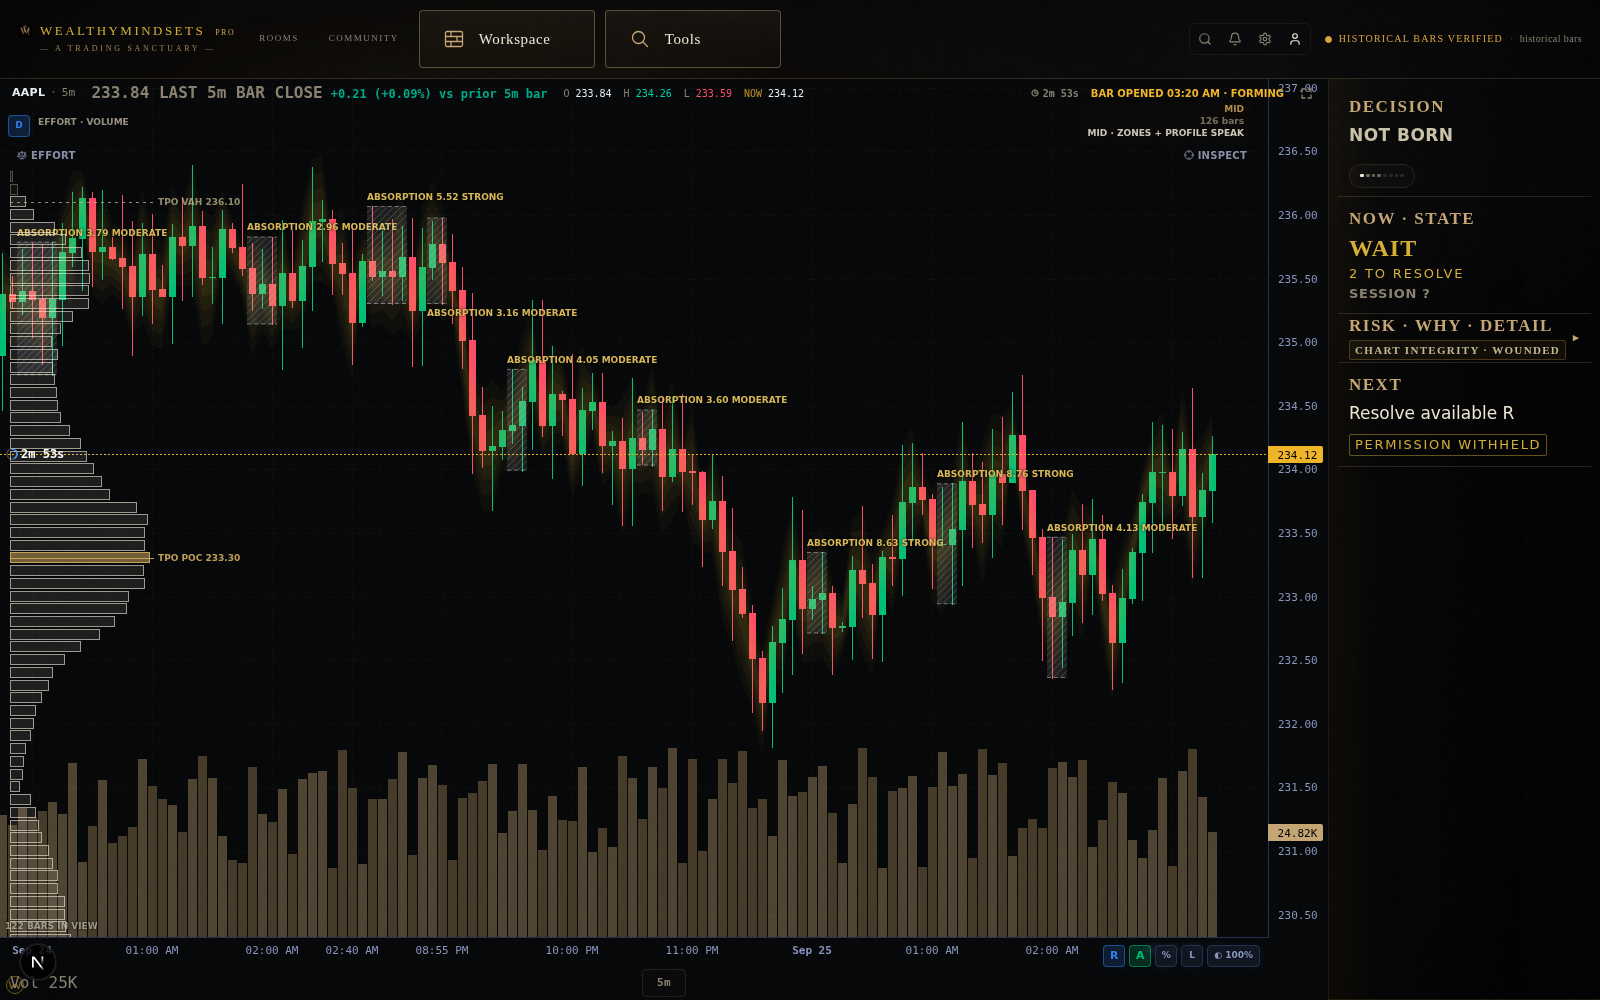
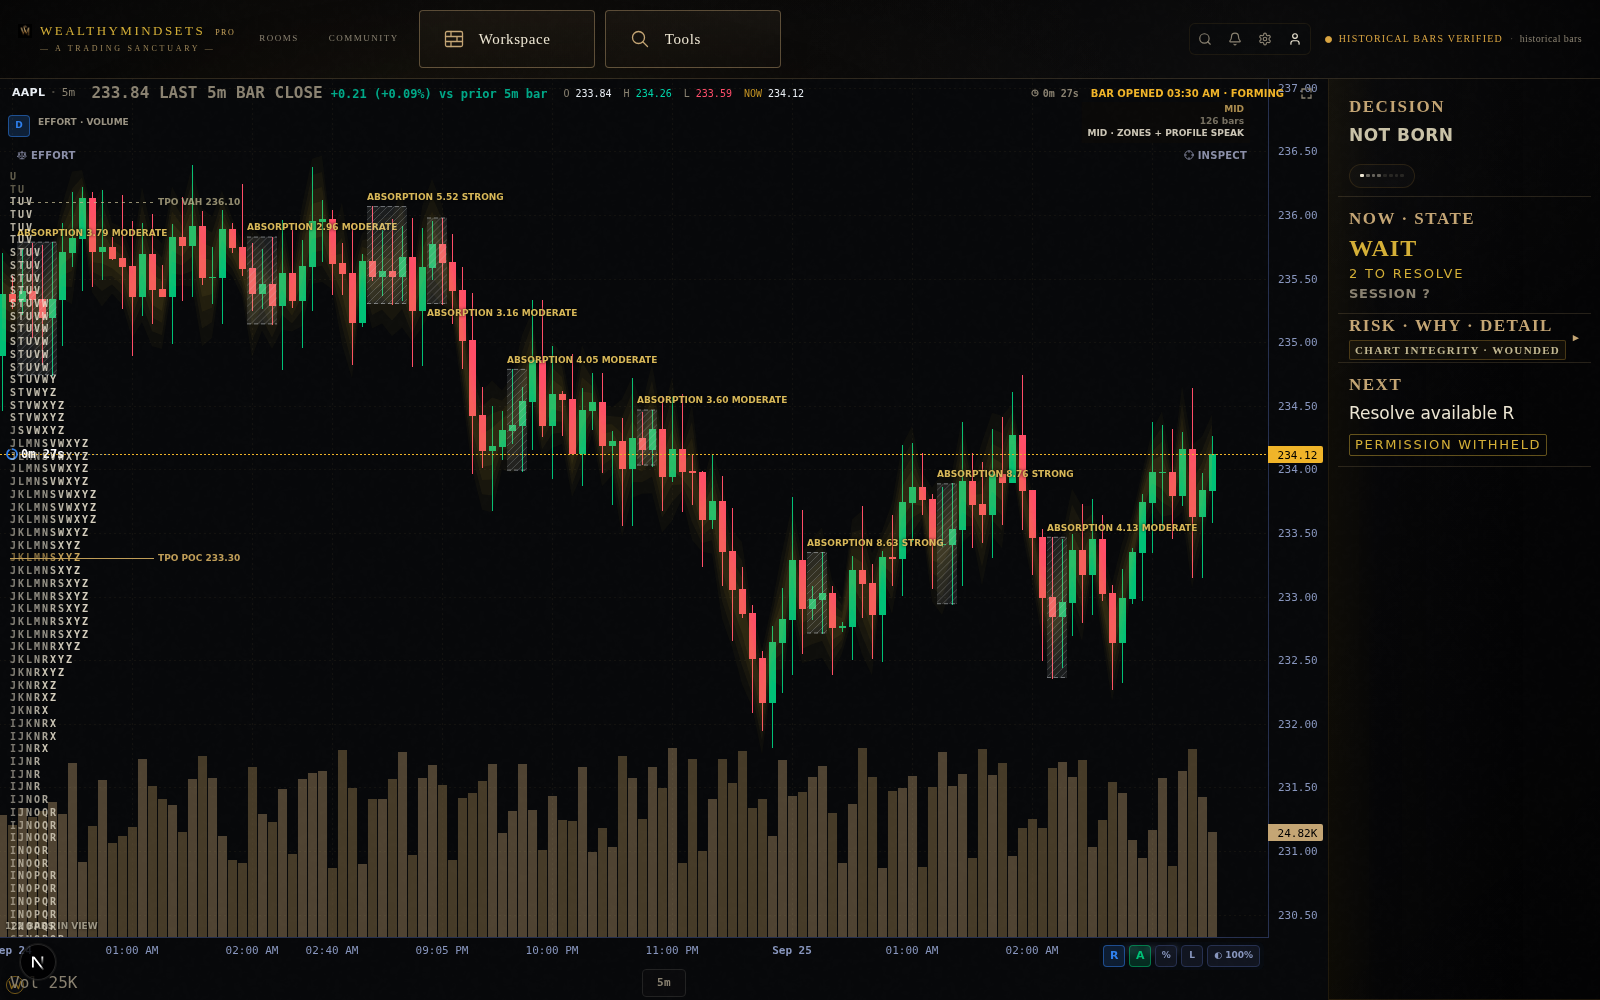
Garden 12 · TPO reads as time: A–Z bracket letters, not another volume bar
The TPO compiler now also returns, per row, the time brackets that visited it
(the window split into ≤ 26 brackets, A = earliest; barsPerLetter stated).
The canvas prints each row as its letters in time order — early dim, late
bright — so the auction's travel through time is legible in the letters; thin
rows become one block per letter. Count, POC and value area unchanged (tested).
Receipt: ds.tpoGeometry. Proof: garden12/BA_tpo.png.

Claude-Session: https://claude.ai/code/session_01Gntm2WzCaW5uQMS2aMojoZ

diff --git a/src/components/chart/MainChart.tsx b/src/components/chart/MainChart.tsx
@@ -10386,27 +10386,37 @@ export function MainChart({ symbol, timeframe, setTimeframe, footprintType, foot
             let drawnRows = 0;
             let drawnSingles = 0;
             ctx.lineWidth = 1;
+            // GARDEN 12 · TPO READS AS TIME, NOT AS ANOTHER VOLUME BAR. Each
+            // row prints the time brackets that visited it, in order — A is
+            // the window's earliest — early letters dim, late letters bright,
+            // so the auction's migration through time is visible in the
+            // letters themselves. Rows too thin for type become one block per
+            // letter. POC row brass, value area parchment, outside quieter.
+            const maxLetters = Math.max(1, ...tpo.rows.map(r => r.letters.length));
+            const cellW = Math.max(3, Math.min(8, Math.floor(colMax / Math.max(1, maxLetters))));
+            const asText = rowH >= 7;
+            ds.tpoGeometry = `${asText ? "LETTERS" : "BLOCKS"}:${maxLetters}:${tpo.barsPerLetter}BPL`;
+            ctx.font = `700 ${Math.min(10, rowH)}px ui-monospace, SFMono-Regular, Menlo, monospace`;
+            ctx.textAlign = "left"; ctx.textBaseline = "middle";
             for (const r of tpo.rows) {
               const yr = srs.priceToCoordinate(r.price);
               if (yr == null) continue;
               const y = Math.round(+yr) - Math.floor(rowH / 2);
               const h = Math.max(1, rowH - 1);
-              const w = Math.max(1, Math.round(r.share * colMax));
-              if (r.isPoc) {
-                ctx.fillStyle = "rgba(201,165,92,0.55)";
-                ctx.fillRect(leftEdge, y, w, h);
-                ctx.strokeStyle = "rgba(201,165,92,0.95)";
-              } else {
-                ctx.fillStyle = r.insideValueArea
-                  ? "rgba(237,230,211,0.10)"
-                  : "rgba(194,184,146,0.05)";
-                ctx.fillRect(leftEdge, y, w, h);
-                ctx.strokeStyle = r.insideValueArea
-                  ? "rgba(237,230,211,0.62)"
-                  : "rgba(194,184,146,0.38)";
-              }
-              if (h >= 3) ctx.strokeRect(leftEdge + 0.5, y + 0.5, Math.max(0, w - 1), h - 1);
-              else { ctx.beginPath(); ctx.moveTo(leftEdge, y + 0.5); ctx.lineTo(leftEdge + w, y + 0.5); ctx.stroke(); }
+              const rgb = r.isPoc ? "201,165,92" : r.insideValueArea ? "237,230,211" : "194,184,146";
+              const base = r.isPoc ? 1 : r.insideValueArea ? 0.9 : 0.55;
+              [...r.letters].forEach((ch, k) => {
+                const L = ch.charCodeAt(0) - 65;
+                const a = base * (0.35 + 0.65 * (L / 25));
+                const x = leftEdge + k * cellW;
+                if (asText) {
+                  ctx.fillStyle = `rgba(${rgb},${a.toFixed(3)})`;
+                  ctx.fillText(ch, x, y + h / 2 + 0.5);
+                } else {
+                  ctx.fillStyle = `rgba(${rgb},${(a * 0.8).toFixed(3)})`;
+                  ctx.fillRect(x, y, cellW - 1, h);
+                }
+              });
               drawnRows++;
               // SINGLE PRINT — the auction passed through once and never
               // returned. A short brass tick OUTSIDE the column, so it reads

diff --git a/src/lib/marketData/viewModels/selectTpoProfile.ts b/src/lib/marketData/viewModels/selectTpoProfile.ts
@@ -53,6 +53,8 @@ export const TPO_TARGET_ROWS = 80;
 export const MAX_TPO_ROWS = 400;
 /** Classic value-area fraction, identical to the volume engine's default. */
 export const TPO_VALUE_AREA_PCT = 0.7;
+/** A–Z: the window is split into at most this many letter brackets. */
+export const TPO_MAX_LETTERS = 26;
 
 export interface TpoBarInput {
   readonly time: number;
@@ -77,6 +79,11 @@ export interface TpoRow {
   readonly isPoc: boolean;
   /** Touched by exactly one period, strictly inside the range. */
   readonly single: boolean;
+  /**
+   * The time brackets that touched this row, in time order — "A" is the
+   * window's earliest bracket. The classic market-profile letter column.
+   */
+  readonly letters: string;
 }
 
 export interface TpoProfileVM {
@@ -95,6 +102,8 @@ export interface TpoProfileVM {
   readonly totalTpo: number;
   readonly rows: readonly TpoRow[];
   readonly singlePrintCount: number;
+  /** How many chart bars one letter spans (the window split into ≤ 26 brackets). */
+  readonly barsPerLetter: number;
   /** Unix seconds of the last period counted — the reading's asOf. */
   readonly asOf: number | null;
 }
@@ -110,6 +119,7 @@ function refuse(reason: Exclude<TpoReason, "DRAWN">, periods: number, note: stri
     periodNote: PERIOD_NOTE,
     periods,
     tickSize: 0,
+    barsPerLetter: 0,
     poc: null,
     vah: null,
     val: null,
@@ -168,6 +178,16 @@ export function selectTpoProfile(
     const z = idx(b.high);
     for (let i = a; i <= z; i++) counts[i] += 1;
   }
+  // LETTERS. Time order is the bars' own times; each bracket spans
+  // barsPerLetter bars. A row's letters are the brackets whose bars touched it.
+  const byTime = [...valid].sort((x, y) => x.time - y.time);
+  const barsPerLetter = Math.max(1, Math.ceil(byTime.length / TPO_MAX_LETTERS));
+  const letterSets: Set<number>[] = Array.from({ length: n }, () => new Set<number>());
+  byTime.forEach((b, k) => {
+    const L = Math.floor(k / barsPerLetter);
+    for (let i = idx(b.low); i <= idx(b.high); i++) letterSets[i].add(L);
+  });
+  const lettersAt = (i: number) => [...letterSets[i]].sort((x, y) => x - y).map(L => String.fromCharCode(65 + L)).join("");
 
   // Bucket low edge, rounded so a label reads 101.25 and not 101.24999999.
   const priceAt = (i: number) => +((base + i * tick).toFixed(10));
@@ -213,6 +233,7 @@ export function selectTpoProfile(
       insideValueArea: i >= vLo && i <= vHi,
       isPoc: i === pocIdx,
       single,
+      letters: lettersAt(i),
     });
   }
 
@@ -228,6 +249,7 @@ export function selectTpoProfile(
     vah: priceAt(vHi),
     val: priceAt(vLo),
     totalTpo,
+    barsPerLetter,
     rows,
     singlePrintCount,
     asOf: Number.isFinite(asOf) ? asOf : null,

diff --git a/src/lib/marketData/viewModels/selectTpoProfile.test.ts b/src/lib/marketData/viewModels/selectTpoProfile.test.ts
@@ -112,3 +112,26 @@ describe("the distribution", () => {
     expect(r.rows.length).toBeLessThanOrEqual(400);
   });
 });
+
+describe("TPO letters — the classic time-bracket column", () => {
+  const bar = (i: number, low: number, high: number) => ({ time: 1000 + i * 60, low, high });
+  it("≤ 26 bars: one letter per bar, in time order, A first", () => {
+    const bars = Array.from({ length: 10 }, (_, i) => bar(i, 100 + (i < 5 ? 0 : 2), 101 + (i < 5 ? 0 : 2)));
+    const vm = selectTpoProfile(bars);
+    expect(vm.barsPerLetter).toBe(1);
+    const low = vm.rows.find(r => r.price <= 100.5)!;
+    expect(low.letters.startsWith("A")).toBe(true);
+    expect(low.letters.includes("F")).toBe(false);
+    const high = vm.rows[vm.rows.length - 1];
+    expect(high.letters).toMatch(/^F/);
+    for (const r of vm.rows) expect([...r.letters].sort().join("")).toBe(r.letters);
+  });
+  it("a long window is split into at most 26 brackets; count is unchanged", () => {
+    const bars = Array.from({ length: 130 }, (_, i) => bar(i, 100, 101));
+    const vm = selectTpoProfile(bars);
+    expect(vm.barsPerLetter).toBe(5);
+    expect(vm.rows.every(r => r.letters.length <= 26)).toBe(true);
+    expect(vm.rows[0].letters).toBe("ABCDEFGHIJKLMNOPQRSTUVWXYZ");
+    expect(vm.rows[0].count).toBe(130);
+  });
+});
